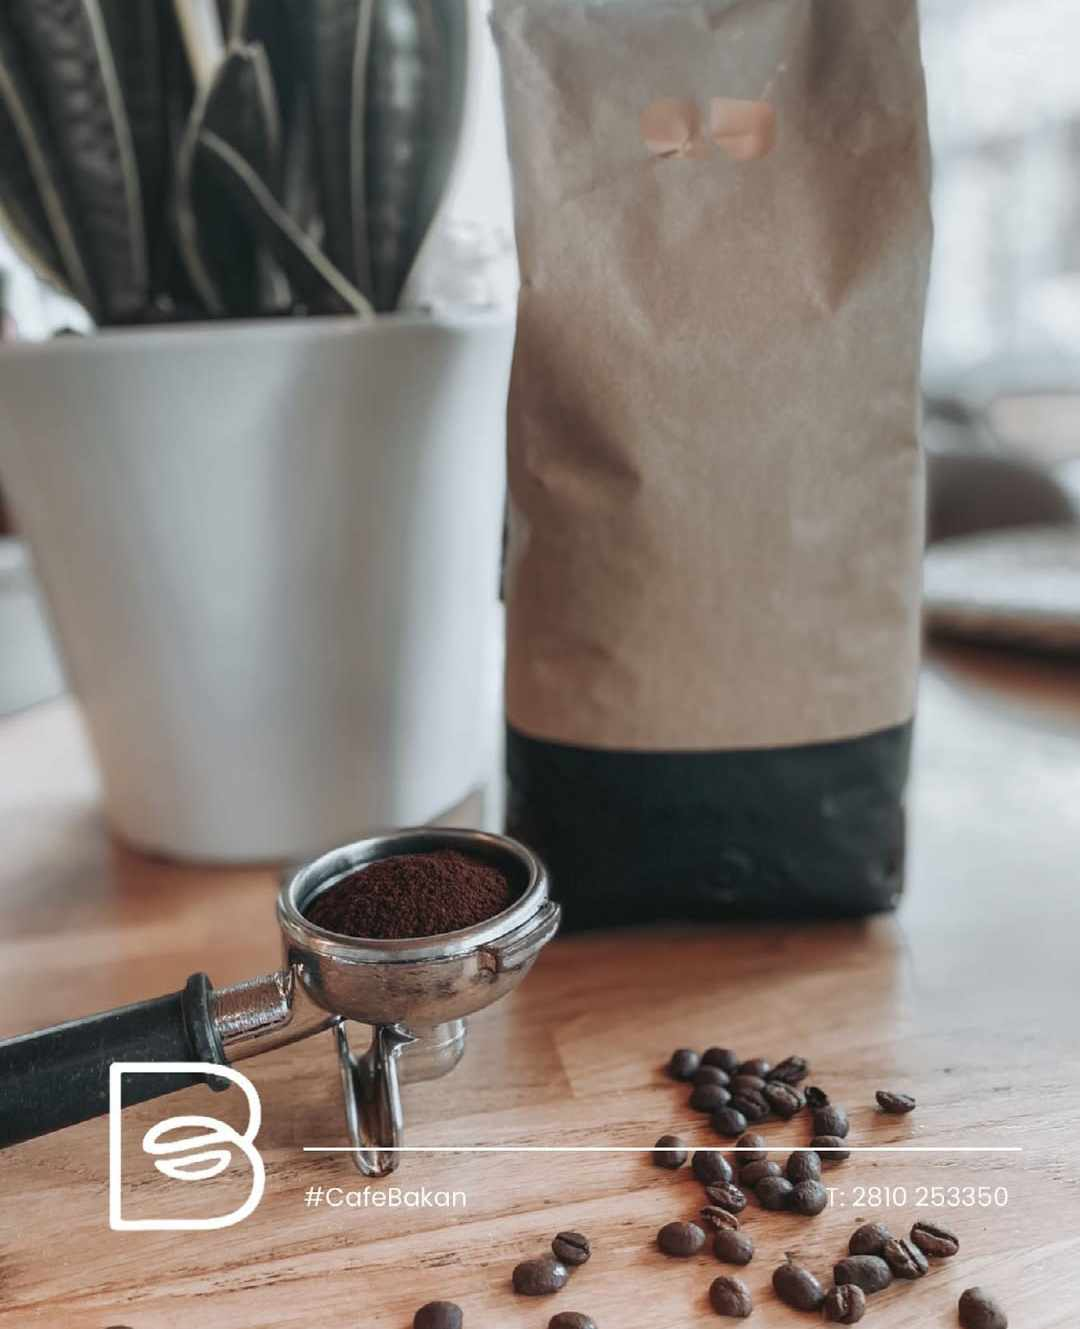
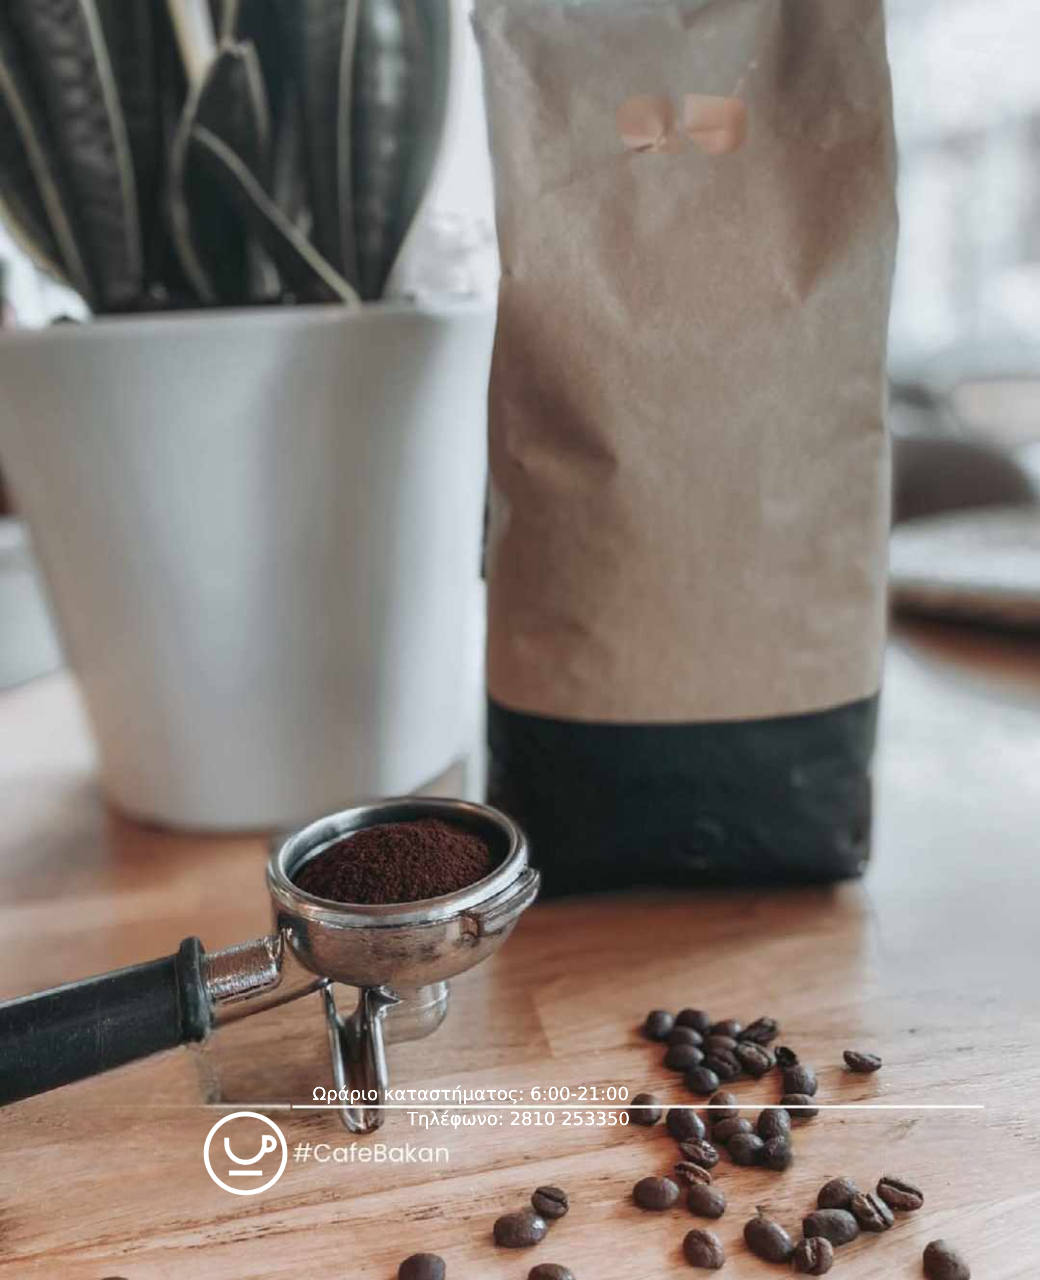
bakan footer

Changed region(s): [[0.0923, 0.7812, 0.2769, 0.9375], [0.3077, 0.8438, 0.6154, 0.875], [0.7385, 0.875, 0.9231, 0.9062]]

diff --git a/index.html b/index.html
@@ -16,10 +16,9 @@
     <title>BAKAN</title>
 </head>
 <body>
-    <img src="images/background-image3.jpg" class="bg-image" alt="">
+    <img src="images/background-image.jpg" class="bg-image" alt="">
     <nav class="navbar">
         <img src="images/logo2.png" class="logo" alt="Bakan Logo">
-        <div class="phone"> <span class="phone-n">Τηλέφωνο: 2810 253350 | Ωράριο Καταστήματος: 6:00-21:00</span></div>
         <div class="dropdown">
             <button id="dropdown-button" class="dropdown-button" onclick="showLanguageDropdown()">
                 <img id="current-flag" src="images/greek_flag.jpg" alt="Greek">

diff --git a/css/homepage.css b/css/homepage.css
@@ -35,20 +35,6 @@ body, html {
 }
 
 
-.phone{
-    margin-left: 20px;
-    width: 300px;
-    font-size: 10px;
-    font-weight: 600;
-    text-align: start;
-}
-
-.phone-n{
-    color: var(--clr-light);
-    border-radius: 3px;
-    padding: 2px;
-}
-
 
 .social-media-links {
     position: absolute;
